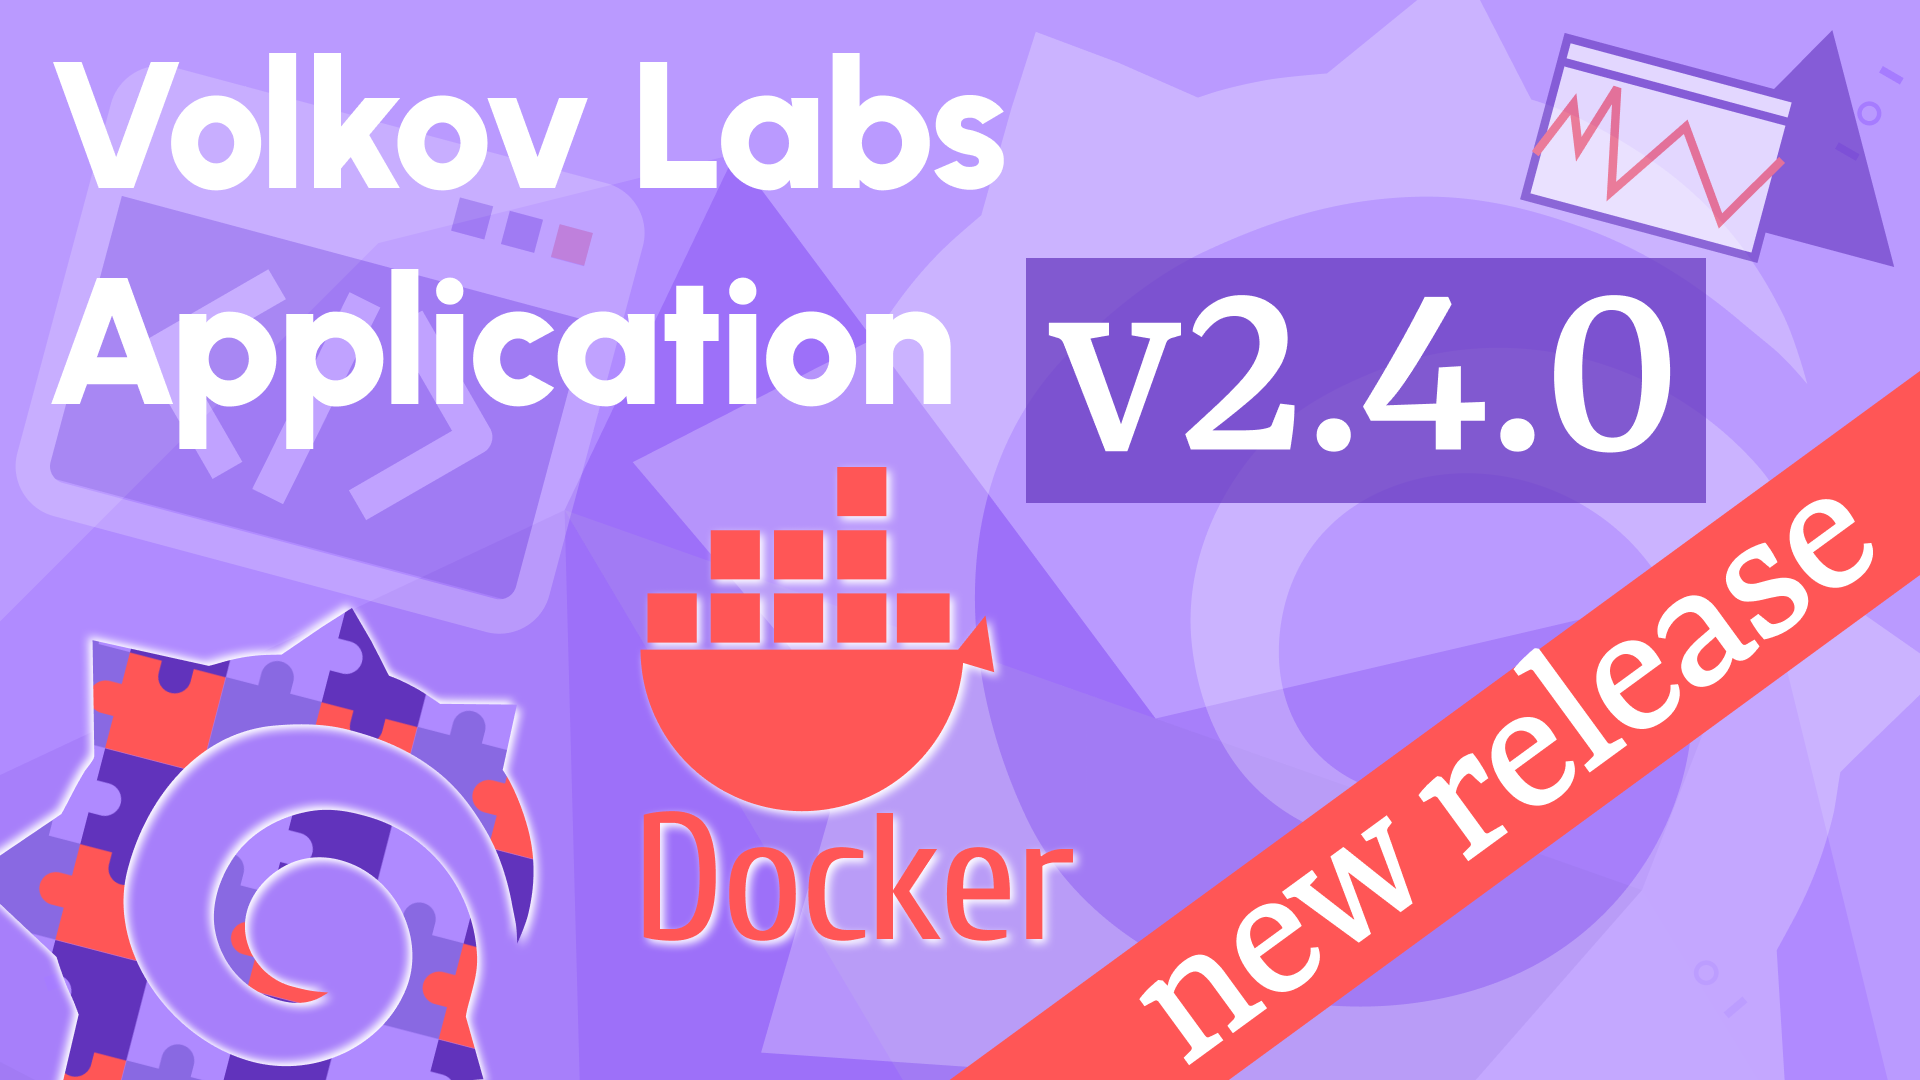
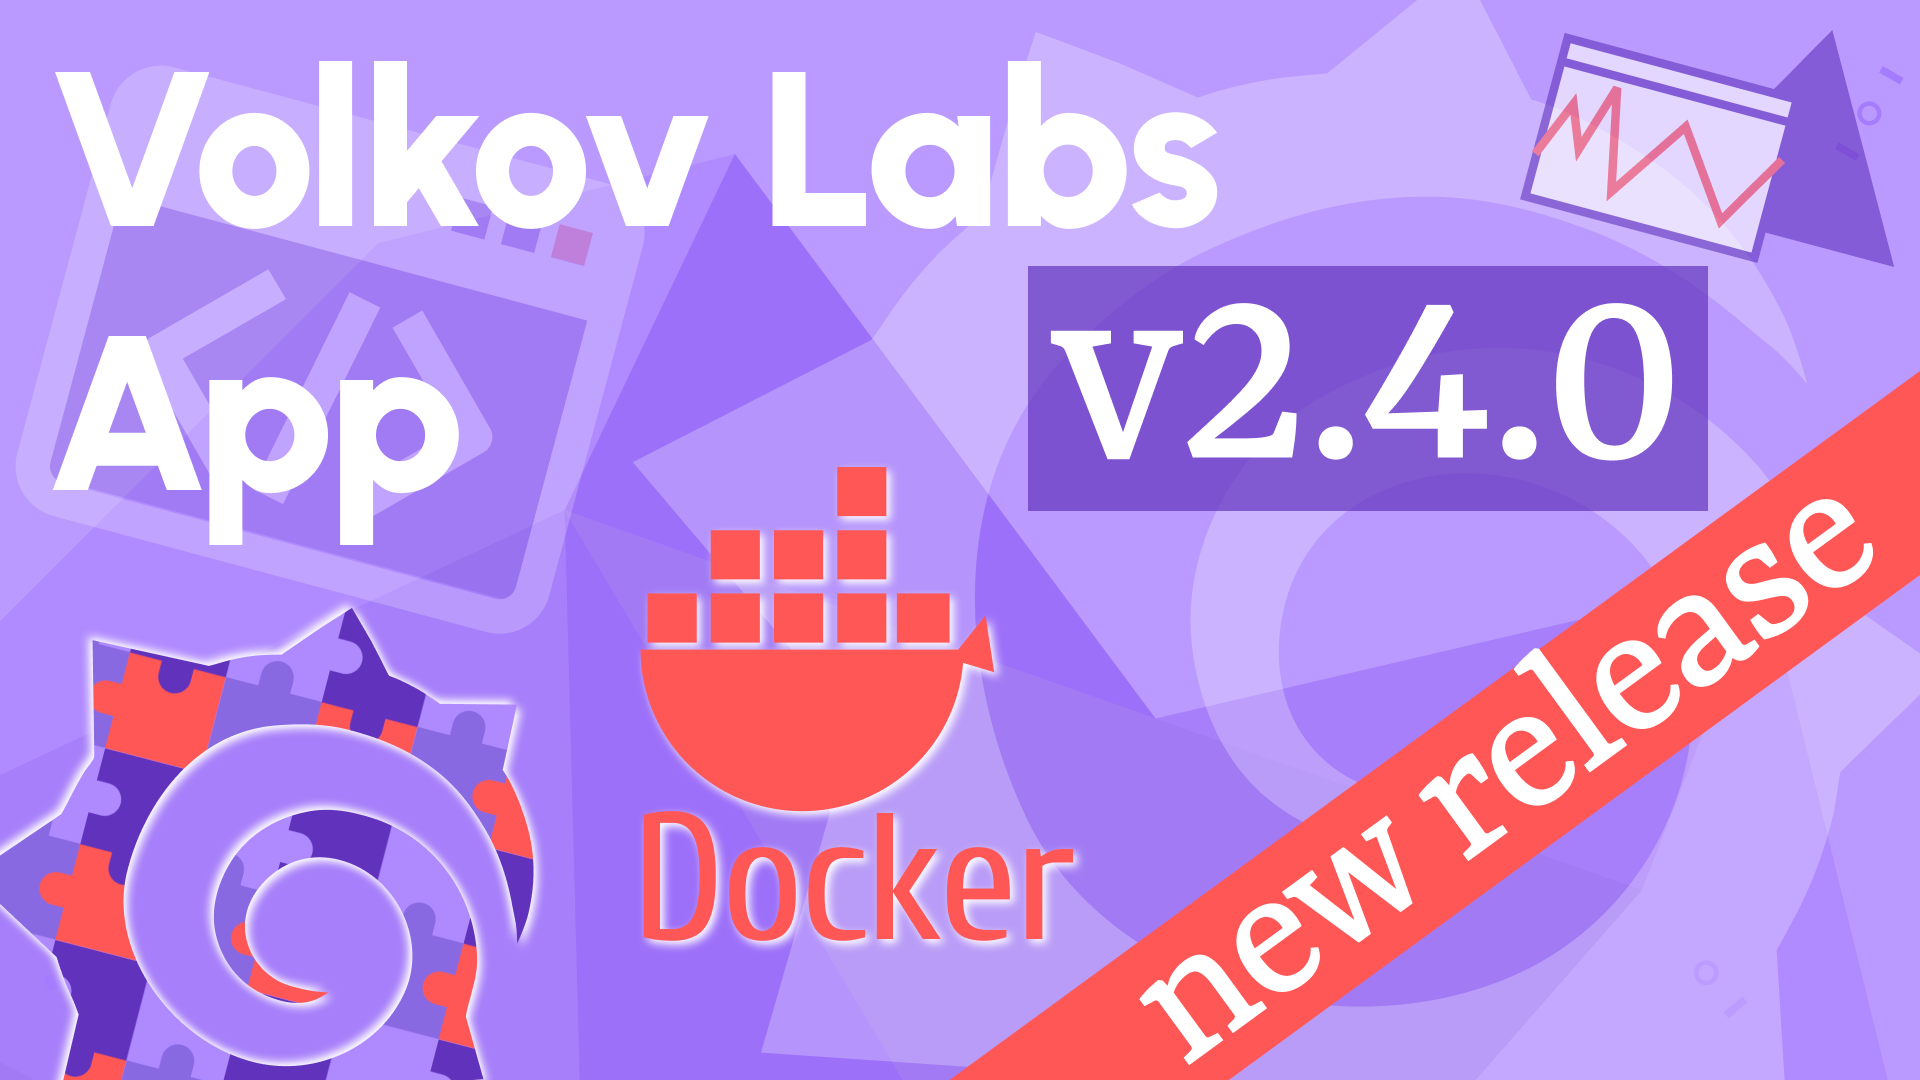
Add Volkov Labs App 2.5.0 blog (#417)
* Add Volkov Labs App 2.5.0

* Add images

diff --git a/src/constants/project.tsx b/src/constants/project.tsx
@@ -1,5 +1,5 @@
-import React from 'react';
-import { PluginItem } from '../types';
+import React from "react";
+import { PluginItem } from "../types";
 
 /**
  * Project List
@@ -35,7 +35,7 @@ export const ProjectList: PluginItem[] = [
     href: "/plugins/templates/",
   },
   {
-    title: "Volkov Labs Application",
+    title: "Volkov Labs App",
     name: "volkovlabs-app",
     description: <>Docker image with customized Grafana.</>,
     href: "/plugins/volkovlabs-app/",

diff --git a/config/sidebar/development.js b/config/sidebar/development.js
@@ -99,7 +99,7 @@ const development = {
         },
         "volkovlabs-app/release",
       ],
-      label: "Volkov Labs Application",
+      label: "Volkov Labs App",
       type: "category",
       description: "Docker image with customized Grafana.",
       link: {

diff --git a/config/footer.js b/config/footer.js
@@ -66,7 +66,7 @@ const footer = {
           href: "/plugins/templates/",
         },
         {
-          label: "Volkov Labs Application",
+          label: "Volkov Labs App",
           href: "/plugins/volkovlabs-app/",
         },
       ],
